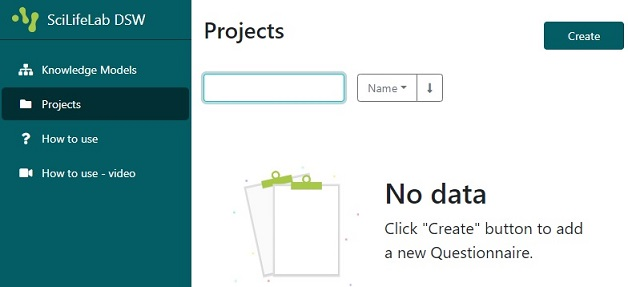
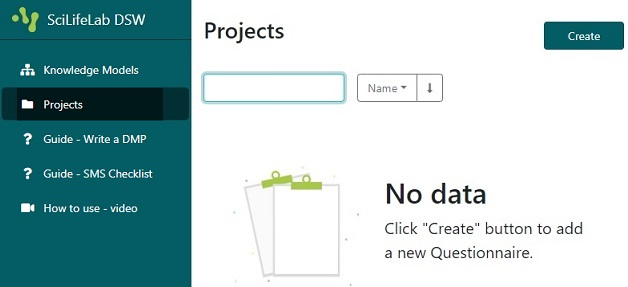
Update DMP guide
Clarify terminology, update SNIC-SENS information (including pictures), add recommendation on refinement of documents previous to submission to stakeholder.

diff --git a/dsw_instructions/index.html b/dsw_instructions/index.html
@@ -26,8 +26,12 @@
       <div class="container">
         <div class="Public_BookReference">
           <div>
-            <h1>Instructions on how to use DS wizard</h1>
-            <p>Follow the 'How to'-links below to get help on the different
+            <h1>Instructions on how to use DS Wizard</h1>
+            <p>
+              Data Stewardship Wizard (DSW) is a tool to support and guide researchers regarding 
+              data management aspects, such as writing a data management plan. 
+              
+              Follow the 'How to'-links below to get help on the different
               functions of DS Wizard.
             </p>
             <h2>Terminology</h2>
@@ -35,9 +39,16 @@
             <p>
               First some definitions are in order:
 			        <ul>
-                <li>Knowledge Model = data management plan template; this is the questions that 
-			              will be asked and the guidance given to help you answer the questions</li>
-			          <li>Project = an individual data management plan, i.e. the questions with your answers</li>
+                <li>DMP = data management plan; describes the strategies chosen regarding how the data 
+                  is managed during, and after, a research project</li>
+                <li>Knowledge Model = questionnaire template; specifies which questions 
+			            will be asked</li>
+                <li>Questionnaire = question form; displays the questions that are asked in order to create 
+                  a DMP (or other document); its structure is based on the selected knowledge model 
+                  </li>
+                  <li>Project = grouping of a questionnaire, its documents, and related settings together</li>
+                  <li>Document = generated output file of a questionnaire based on the selected output format 
+                  template (often, but not necessarily, a DMP)</li>
               </ul>
             </p>
             
@@ -51,7 +62,8 @@
               <li><a href="./migrate_project.html"> Update an outdated Project </a></li>
               <li><a href="./clone_project.html"> Create a copy of existing Project </a></li>
               <li><a href="./help_feedback.html"> Get Help and provide Feedback </a></li>
-		      	  <li><a href="https://dsw-docs.readthedocs.io/en/latest/user/tutorial.html"> Work with the Knowledge Model Editor (external link for Data Stewards)</a>
+              <li><a href="https://dsw-docs.readthedocs.io/en/latest/user/tutorial.html"> Work with the 
+                Knowledge Model Editor (external link, for Data Stewards)</a>
 		    	  </ul>
 
 		    	  </p>

diff --git a/dsw_instructions/new_project.html b/dsw_instructions/new_project.html
@@ -35,13 +35,16 @@
           <li>Name the project and select Knowledge Model</li>
           <ul>
             <li>Write a Name based on your name and project, so it is easy to find later </li>
-            <li>Select <code>SciLifeLab Science Europe / VR DMP 2.0.3</code> (or the highest version number) as Knowledge Model</li>
+            <li>Select <code>SciLifeLab Science Europe / VR DMP 2.0.5</code> (or the highest version number) as 
+              Knowledge Model <br>
+              <b>Note:</b> Select the SNIC-SENS tag if you want to write the abridged DMP required when applying 
+              for a project on Uppmax regarding sensitive data.     
+              </li>
             <li>Click on <b>Save</b> and begin answering the questions</li>
           </ul>
           <br>
           <img src="./create_select_km.jpg" alt="create_select_km_image"><br><br>
-          <b>Note:</b> Select the SNIC tag if you only want to see questions of interest in a SNIC application.
-        </ol>
+       </ol>
 		    </p>
       </div>
     </div>

diff --git a/dsw_instructions/export_project.html b/dsw_instructions/export_project.html
@@ -41,7 +41,10 @@
               <code>SciLifeLab Vetenskapsrådet DMP</code>
             </li>
             <li>Finally, when a template is selected, a set of <b>file formats</b> is shown. Click on the file 
-              format you want (typically PDF or MS Word), and then click <b>Save</b>.
+              format you want (typically PDF or MS Word), and then click <b>Save</b>. <br>
+              <i><b>Note:</b> We recommend to export to a format which allows you to view and edit the 
+              document previous to submitting it to a stakeholder. The output template only makes a generic 
+              transformation, of the questionnaire answers into the stakeholders template, and might need refinement.</i>
             </li>
           </ul>
 		    </p> 
